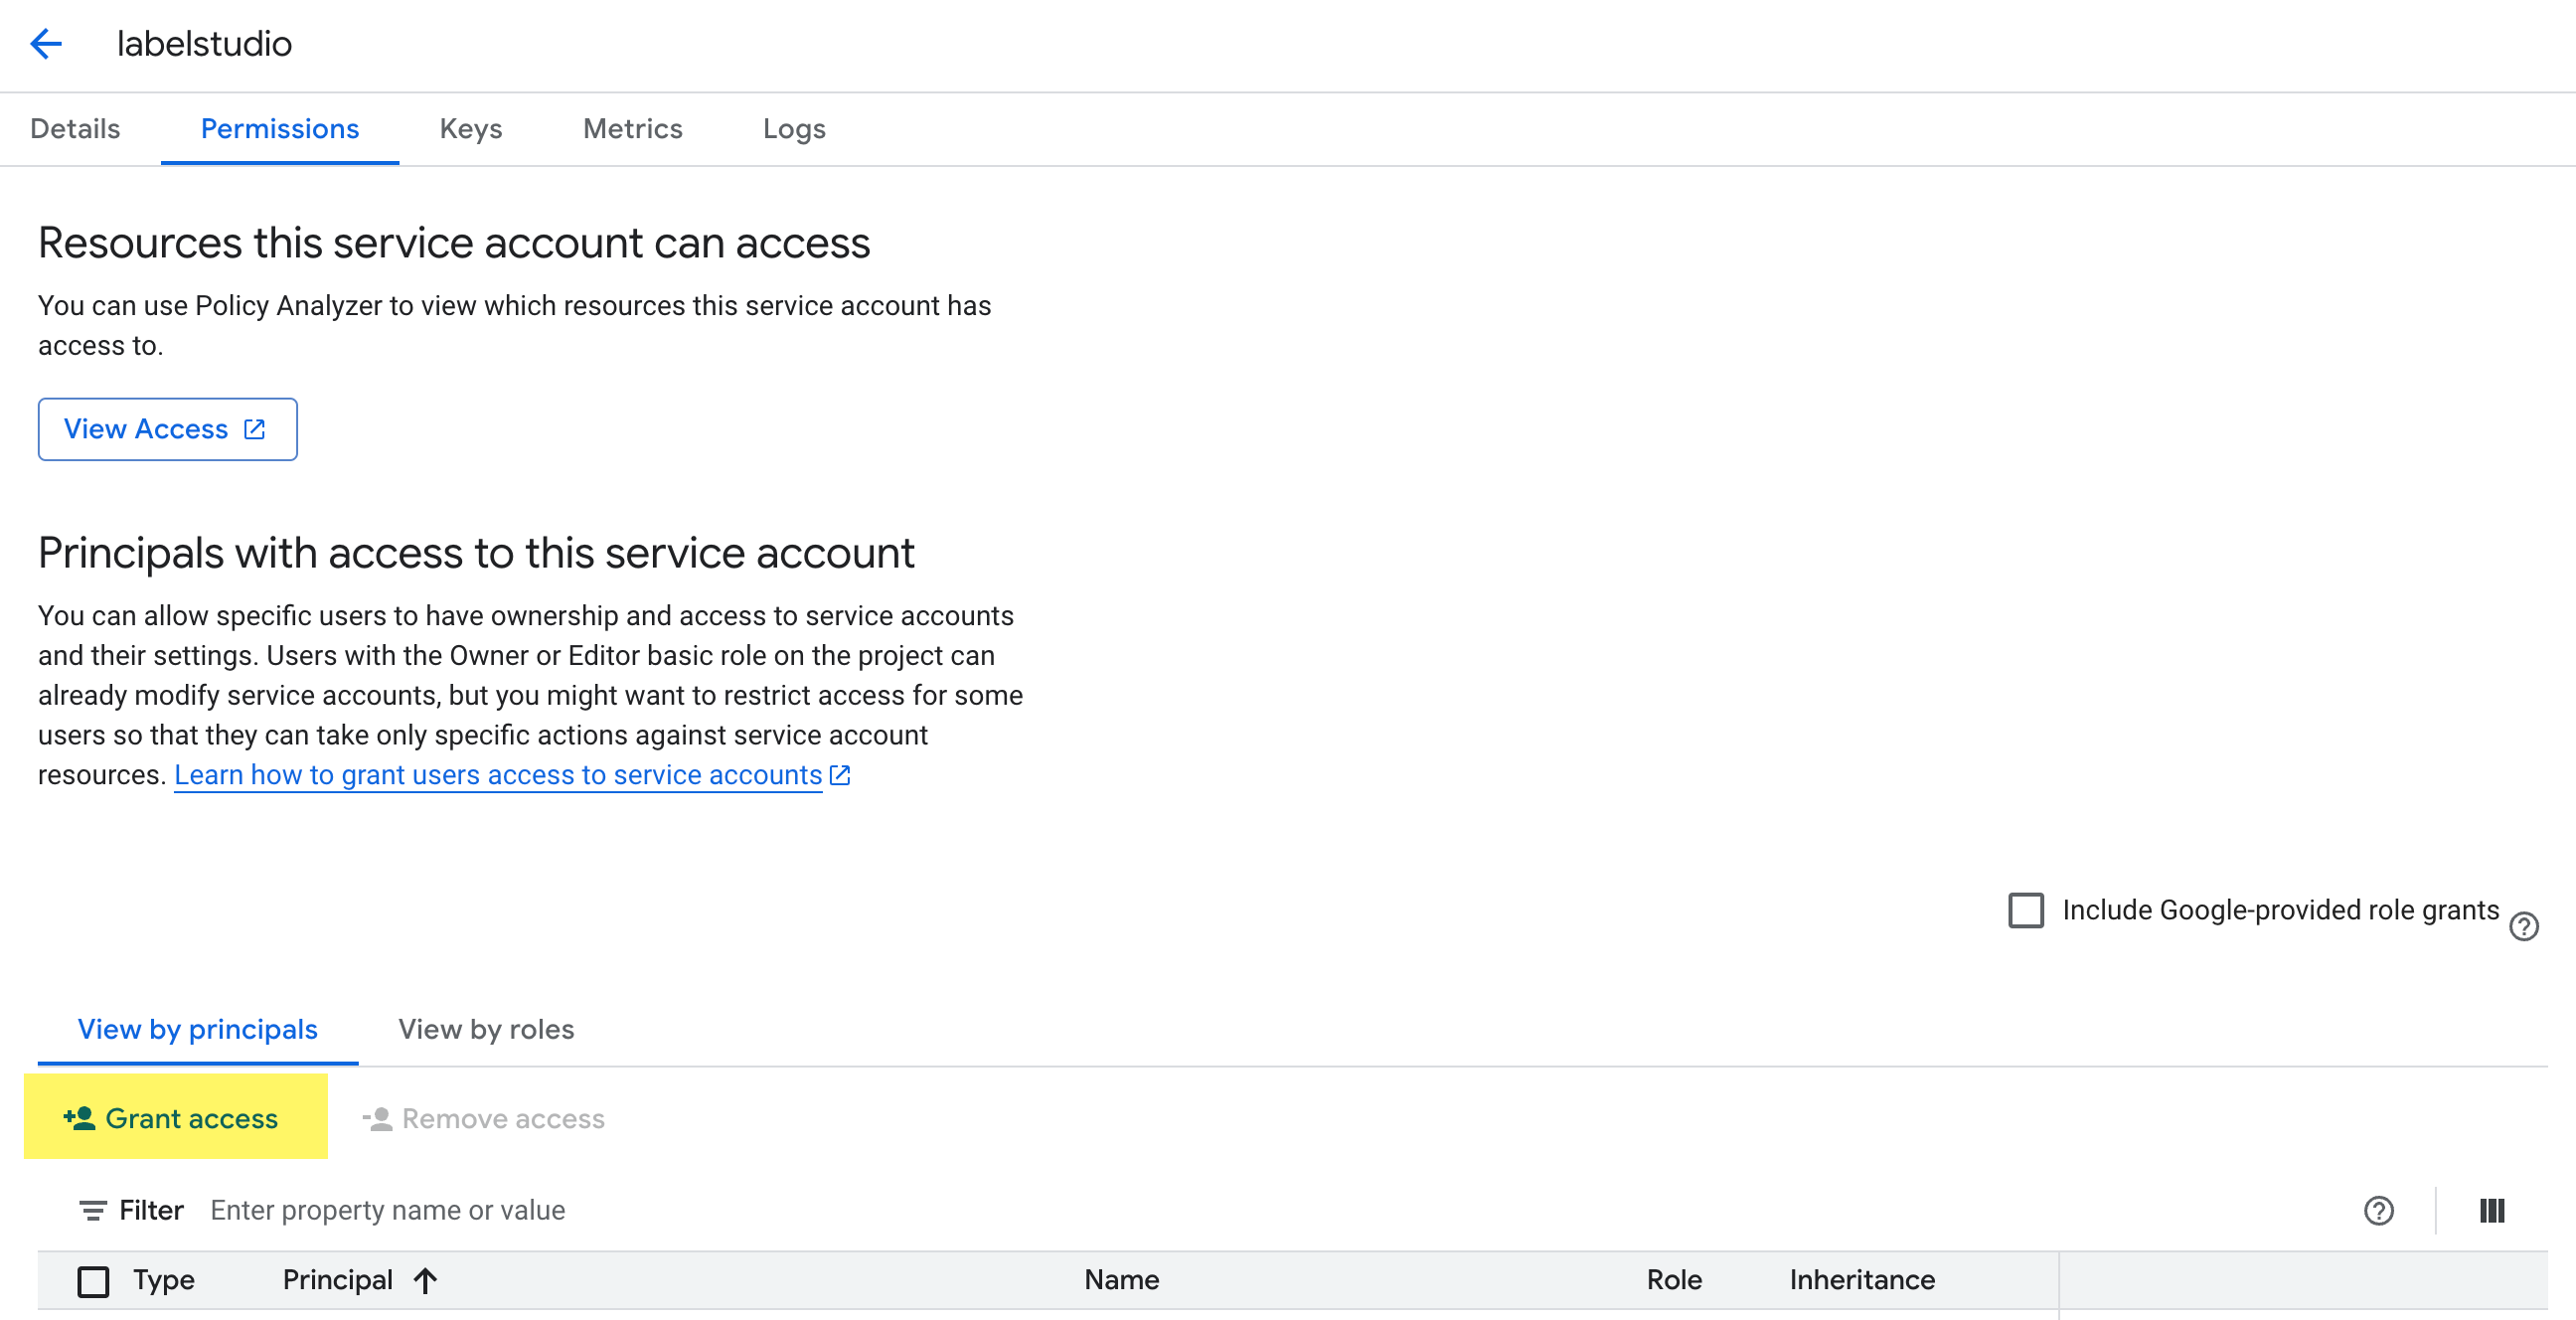
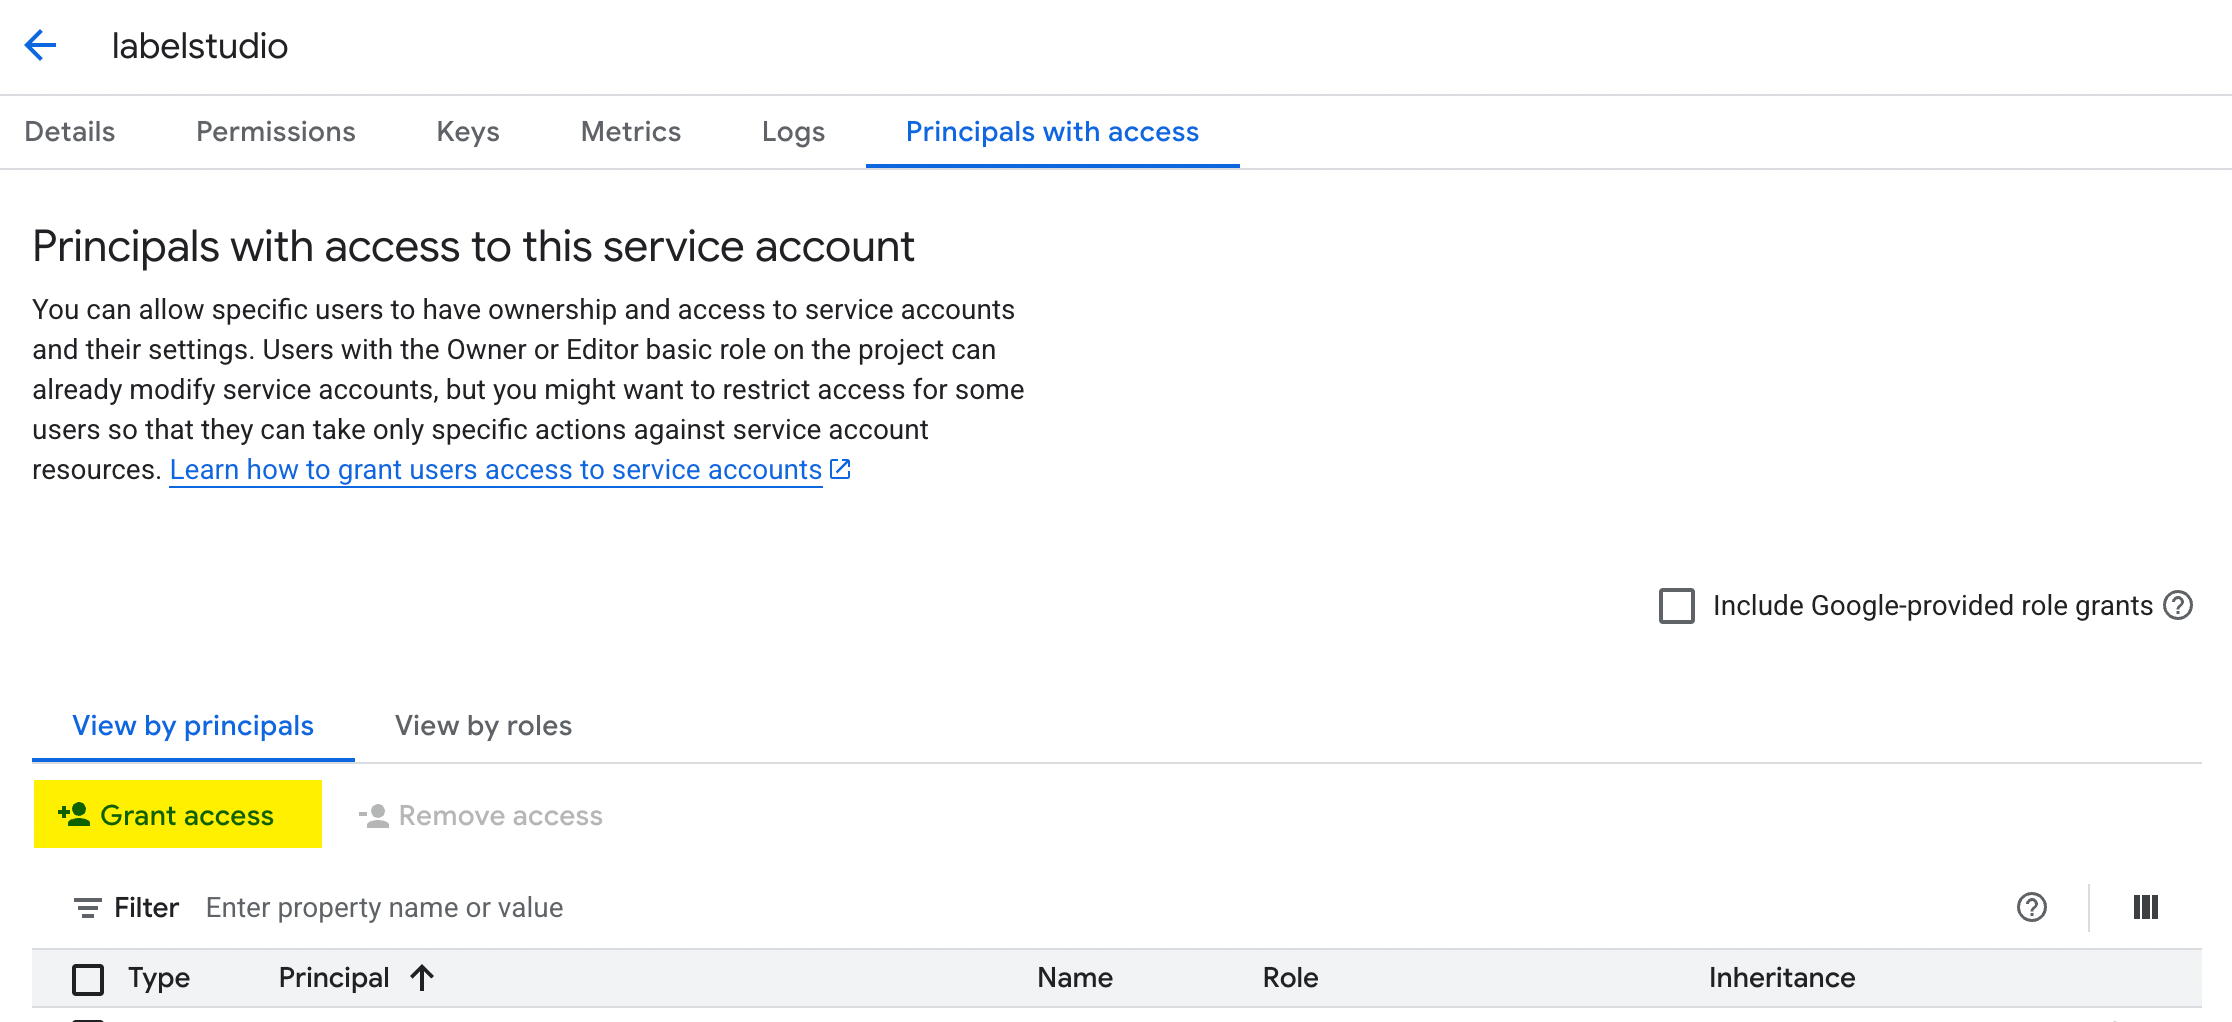
docs: Fix Google WIF docs

diff --git a/docs/source/guide/storage.md b/docs/source/guide/storage.md
@@ -382,9 +382,9 @@ After you [configure access to your S3 bucket](#Configure-access-to-your-S3-buck
     - In the **Session Token** field, specify a session token of the temporary security credentials for an AWS account with access to your S3 bucket.
     - (Optional) Enable **Treat every bucket object as a source file** if your bucket contains BLOB storage files such as JPG, MP3, or similar file types. This setting creates a URL for each bucket object to use for labeling. Leave this option disabled if you have multiple JSON files in the bucket with one task per JSON file.
     - (Optional) Enable **Recursive scan** to perform recursive scans over the bucket contents if you have nested folders in your S3 bucket.
-    - Choose whether to disable **Use pre-signed URLs**. 
-        - All s3://... links will be resolved on the fly and converted to https URLs, if this option is on. 
-        - All s3://... objects will be preloaded into Label Studio tasks as base64 codes, if this option is off. It's not recommended way, because Label Studio task payload will be huge and UI will slow down. Also it requires GET permissions from your storage. 
+    - Choose whether to disable [**Use pre-signed URLs**](#Pre-signed-URLs-vs-storage-proxies). 
+        - **ON** - Label Studio generates a pre-signed URL to load media. 
+        - **OFF** - Label Studio proxies  media using its own backend.  
     - Adjust the counter for how many minutes the pre-signed URLs are valid.
 8. Click **Add Storage**.
 
@@ -547,7 +547,9 @@ In the Label Studio UI, do the following to set up the connection:
     - In the **External ID** field, specify the external ID that identifies Label Studio to your AWS account. You can find the external ID on your **Organization** page.
     - Enable **Treat every bucket object as a source file** if your bucket contains BLOB storage files such as JPG, MP3, or similar file types. This setting creates a URL for each bucket object to use for labeling. Leave this option disabled if you have multiple JSON files in the bucket with one task per JSON file.
     - Enable **Recursive scan** to perform recursive scans over the bucket contents if you have nested folders in your S3 bucket.
-    - Choose whether to disable **Use pre-signed URLs**. If your tasks contain s3://... links, they must be pre-signed in order to be displayed in the browser.
+    - Choose whether to disable [**Use pre-signed URLs**](#Pre-signed-URLs-vs-storage-proxies). 
+      - **ON** - Label Studio generates a pre-signed URL to load media. 
+      - **OFF** - Label Studio proxies  media using its own backend.  
     - Adjust the counter for how many minutes the pre-signed URLs are valid.
 8. Click **Add Storage**.
 
@@ -686,7 +688,9 @@ In the Label Studio UI, do the following to set up the connection:
 7. Adjust the remaining optional parameters:
     - In the **File Filter Regex** field, specify a regular expression to filter bucket objects. Use `.*` to collect all objects.
     - Enable **Treat every bucket object as a source file** if your bucket contains BLOB storage files such as JPG, MP3, or similar file types. This setting creates a URL for each bucket object to use for labeling, such as `gs://my-gcs-bucket/image.jpg`. Leave this option disabled if you have multiple JSON files in the bucket with one task per JSON file.
-    - Choose whether to disable **Use pre-signed URLs**. If your tasks contain gs://... links, they must be pre-signed in order to be displayed in the browser.
+    - Choose whether to disable [**Use pre-signed URLs**](#Pre-signed-URLs-vs-storage-proxies).
+      - **ON** - Label Studio generates a pre-signed URL to load media. 
+      - **OFF** - Label Studio proxies  media using its own backend.  
     - Adjust the counter for how many minutes the pre-signed URLs are valid.
 8. In the **Google Application Credentials** field, add a JSON file with the GCS credentials you created to manage authentication for your bucket. 
 
@@ -951,7 +955,7 @@ Before you begin, ensure you are in the correct project:
 4. Under **Add a provider pool**, complete the following fields:
 
     * **Select a provider**: Select AWS. This is the location where the Label Studio components responsible for issuing requests are stored. 
-    * **Provider name**: Enter `Label Studio Production` or another display name. 
+    * **Provider name**: Enter `Label Studio App Production` (you can use a different display name, but you need to ensure that the corresponding provider ID is still `label-studio-app-production`)
     * **Provider ID**: Enter `label-studio-app-production`.
     * **AWS Account ID**: Enter `490065312183`.
 
@@ -964,7 +968,7 @@ Before you begin, ensure you are in the correct project:
     * Click **Edit mapping** and then add the following: 
 
         - `google.subject = assertion.arn`
-        - `attribute.aws_role = assertion.arn`
+        - `attribute.aws_role = assertion.arn.contains('assumed-role') ? assertion.arn.extract('{account_arn}assumed-role/') + 'assumed-role/' + assertion.arn.extract('assumed-role/{role_name}/') : assertion.arn` (this might be filled in by default)
         - `attribute.aws_account = assertion.account`
         - `attribute.external_id = assertion.external_id`
 
@@ -972,7 +976,7 @@ Before you begin, ensure you are in the correct project:
 
 7. Go to **IAM & Admin > Service Accounts** and find the service account you want to allow AWS (Label Studio) to impersonate. See [Service account permissions](#Service-account-permissions) above. 
 
-8. From the **Permissions** tab, click **Grant Access**. 
+8. From the **Principals with access** tab, click **Grant Access**. 
 
     ![Screenshot of grant access button](/images/storages/gcs-grant-access.png)
 
@@ -994,10 +998,10 @@ Before you begin, ensure you are in the correct project:
 Before setting up your connection in Label Studio, note the following (you will be asked to provide them)
 
 * Your pool ID - available from **IAM & Admin > Workload Identity Pools** 
-* Your provider ID - available from **IAM & Admin > Workload Identity Pools** 
+* Your provider ID - available from **IAM & Admin > Workload Identity Pools** (this should be `label-studio-app-production`)
 * Your service account email - available from **IAM & Admin > Service Accounts**. Select the service account and the email is listed under **Details**.  
-* Your Google project number - available from **IAM & Admin > Settings**. 
-* Your Google project ID - available from **IAM & Admin > Settings**. 
+* Your Google project number - available from **IAM & Admin > Settings**
+* Your Google project ID - available from **IAM & Admin > Settings**
 
 </details>
 
@@ -1013,9 +1017,9 @@ Select the **GCS (WIF auth)** storage type and then complete the following field
 | ------------------------------------------ | ------------------------------------------------- |
 | Bucket Name                                | Enter the name of the Google Cloud bucket. |
 | Bucket Prefix                              | Optionally, enter the folder name within the bucket that you would like to use.  For example, `data-set-1` or `data-set-1/subfolder-2`.  |
-| File Name Filter                           | Specify a regular expression to filter bucket objects. Use `.*` to collect all objects. |
-| Treat every bucket object as a source file | Enable this option if your bucket contains BLOB storage files such as JPG, MP3, or similar file types. This setting creates a URL for each bucket object to use for labeling, such as `gs://my-gcs-bucket/image.jpg`. Leave this option disabled if you have multiple JSON files in the bucket with one task per JSON file. |
-| Use pre-signed URLs                        | If your tasks contain `gs://…` links, they must be pre-signed in order to be displayed in the browser. |
+| File Name Filter                           | Optionally, specify a regular expression to filter bucket objects. |
+| [Treat every bucket object as a source file](#Treat-every-bucket-object-as-a-source-file) | Enable this option if your bucket contains BLOB storage files such as JPG, MP3, or similar file types. This setting creates a URL for each bucket object to use for labeling, such as `gs://my-gcs-bucket/image.jpg`. Leave this option disabled if you have are specifying your tasks in JSON files. |
+| [Use pre-signed URLs](#Pre-signed-URLs-vs-storage-proxies)                        | **ON** - Label Studio generates a pre-signed URL to load media. <br /> **OFF** - Label Studio proxies  media using its own backend. |
 | Pre-signed URL counter                     | Adjust the counter for how many minutes the pre-signed URLs are valid. |
 | Workload Identity Pool ID                  | This is the ID you specified when creating the Work Identity Pool. You can find this in Google Cloud Console under **IAM & Admin > Workload Identity Pools**. |
 | Workload Identity Provider ID              | This is the ID you specified when setting up the provider. You can find this in Google Cloud Console under **IAM & Admin > Workload Identity Pools**. |
@@ -1140,7 +1144,9 @@ In the Label Studio UI, do the following to set up the connection:
     - In the **Account Name** field, specify the account name for the Azure storage. You can also set this field as an environment variable,`AZURE_BLOB_ACCOUNT_NAME`.
     - In the **Account Key** field, specify the secret key to access the storage account. You can also set this field as an environment variable,`AZURE_BLOB_ACCOUNT_KEY`.
     - Enable **Treat every bucket object as a source file** if your bucket contains BLOB storage files such as JPG, MP3, or similar file types. This setting creates a URL for each bucket object to use for labeling, for example `azure-blob://container-name/image.jpg`. Leave this option disabled if you have multiple JSON files in the bucket with one task per JSON file. 
-    - Choose whether to disable **Use pre-signed URLs**, or [shared access signatures](https://docs.microsoft.com/en-us/rest/api/storageservices/delegate-access-with-shared-access-signature). If your tasks contain azure-blob://... links, they must be pre-signed in order to be displayed in the browser.    
+    - Choose whether to disable [**Use pre-signed URLs**](#Pre-signed-URLs-vs-storage-proxies), or [shared access signatures](https://docs.microsoft.com/en-us/rest/api/storageservices/delegate-access-with-shared-access-signature). 
+      - **ON** - Label Studio generates a pre-signed URL to load media. 
+      - **OFF** - Label Studio proxies media using its own backend.    
     - Adjust the counter for how many minutes the shared access signatures are valid.
 8. Click **Add Storage**.
 9. Repeat these steps for **Target Storage** to sync completed data annotations to a container.